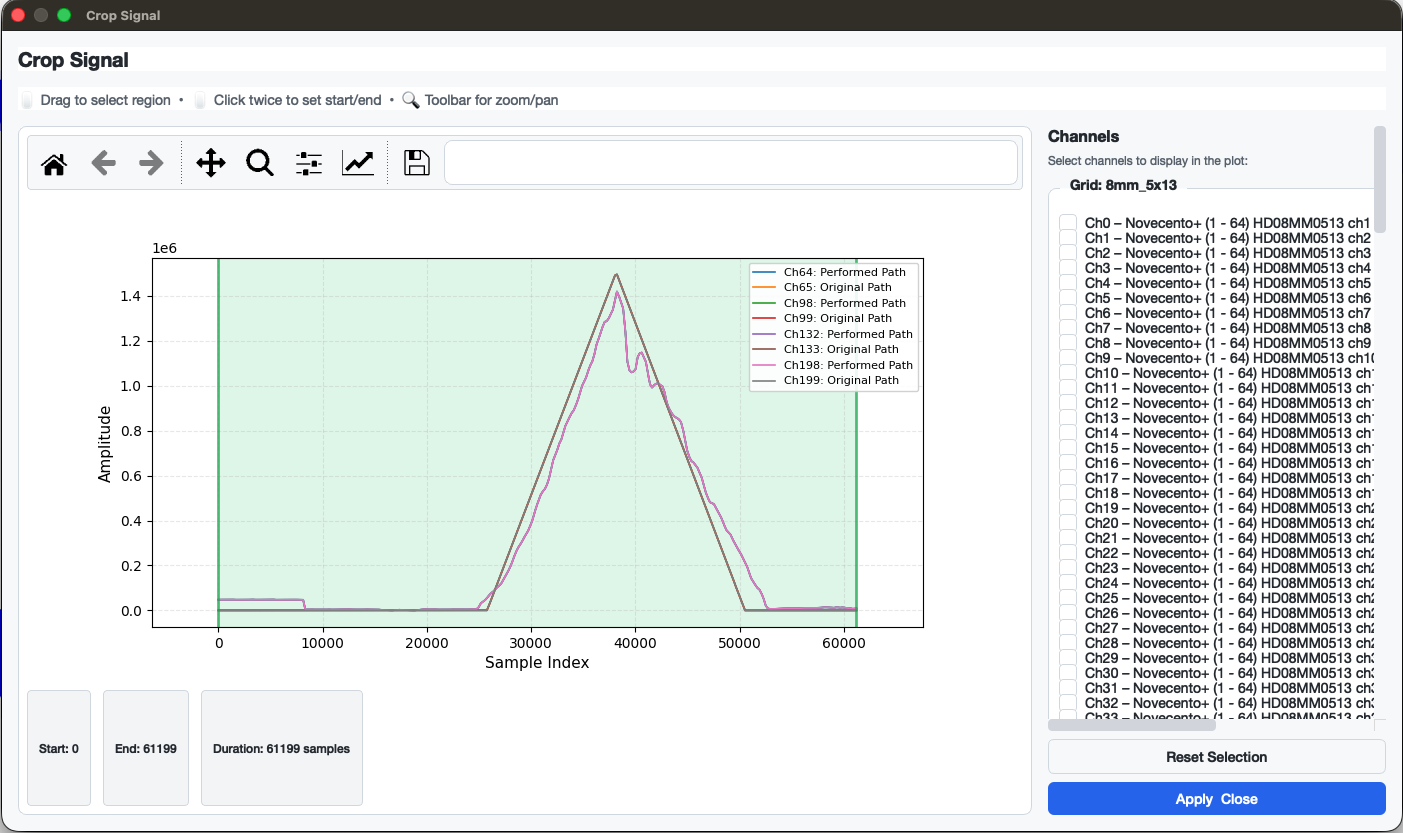
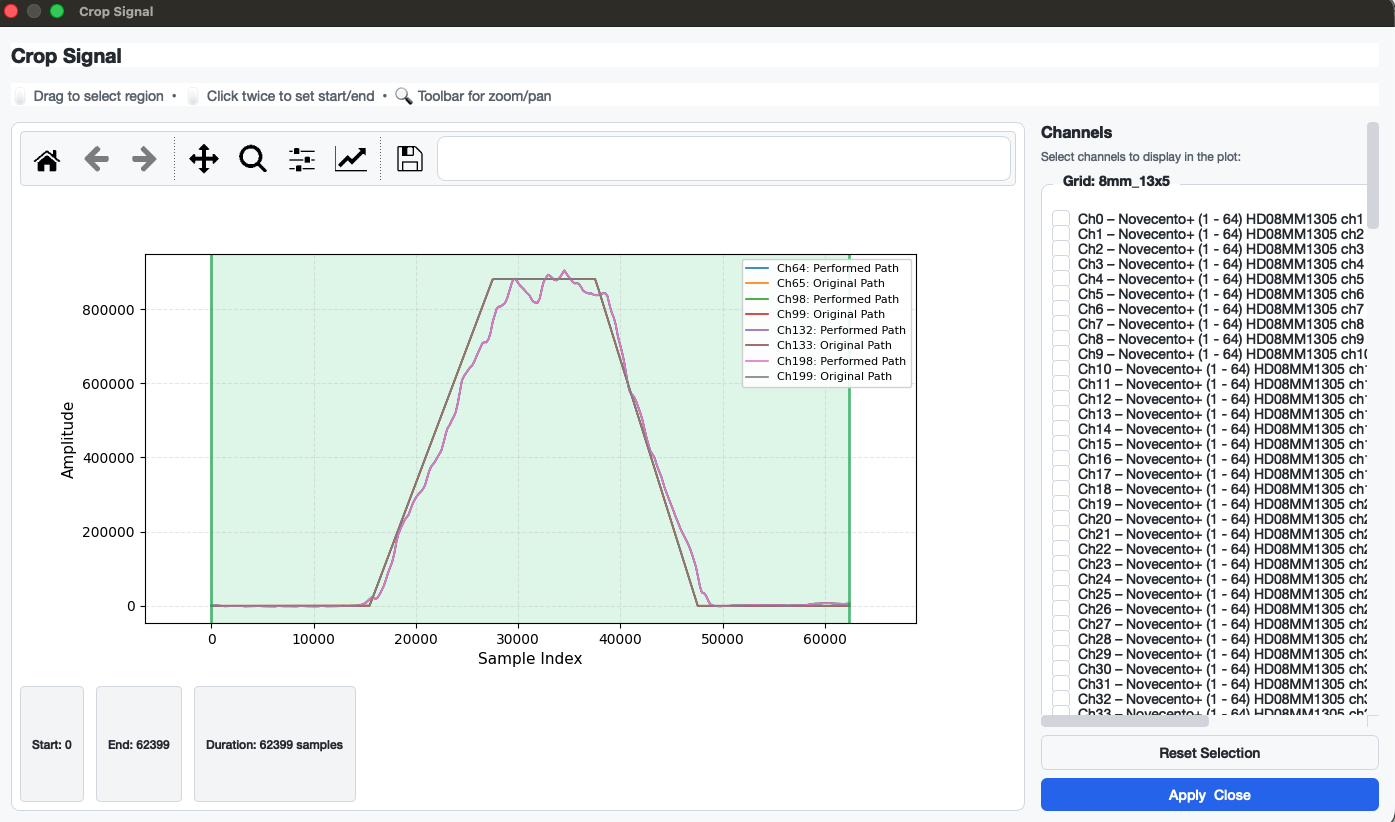
docs: Update screenshots and add fiber trajectory page
Replace the dashboard, density map and crop dialog screenshots with
current ones, add the reference signal overlay to the dashboard page,
and document the Fiber Trajectory Analysis dialog on its own page.

Claude-Session: https://claude.ai/code/session_01Cm2RY1nDJQjej4myeVVUh1

diff --git a/docs/usage/fiber_trajectory.md b/docs/usage/fiber_trajectory.md
@@ -1,0 +1,52 @@
+## Fiber Trajectory Analysis
+
+The **Fiber Trajectory Analysis** estimates, for one grid, the direction in which motor unit action potentials travel across the electrodes. From that direction it reports the fiber angle relative to the grid, the conduction velocity and, if one lies under the grid, the position of the innervation zone. Use it to check whether a grid was placed along the fibers, or to find out why a grid yields few motor units.
+
+![Fiber Trajectory Analysis with a detected innervation zone](../img/fiber_trajectory/fiber_trajectory_iz.png)
+
+---
+
+## Opening the Dialog
+
+Go to **Signal → Fiber Trajectory Analysis...**
+
+> The menu item is only enabled after a file has been loaded and a grid has been configured.
+
+---
+
+## Controls
+
+| Control | Description |
+|---------|-------------|
+| **Grid** | The grid to analyse. |
+| **Window** | Shows which part of the signal is used: the full signal, or the crop range if one is set (see [Crop Signal](crop_signal.md)). |
+| **Run Analysis** | Runs the angle search and fills the result cards and plots. |
+| **Auto Detect** | Runs the analysis and suggests a grid orientation: within ±20° the fibers run along the columns, beyond ±70° along the rows. In between the fibers run obliquely and no orientation change is suggested. |
+| **Export JSON** | Saves the results, the full angle search and the pairwise delays to a JSON file. |
+
+## Results
+
+| Card | Meaning |
+|------|---------|
+| **Fiber angle** | Angle of the fiber direction, measured from the column axis (0° = parallel to the columns, ±90° = parallel to the rows). |
+| **Conduction velocity** | Propagation speed along the fiber direction, in m/s. |
+| **IZ position** | Position of the innervation zone along the fiber direction, in mm. `n/d` if no innervation zone lies under the grid, which is normal when the grid covers only one side of it. |
+| **Alignment (R²)** | How well the delays fit a single propagation direction. Values of 0.80 and above are good, 0.60 to 0.80 moderate, below 0.60 unreliable. |
+
+The left plot shows the electrode grid with the estimated fiber trajectory. If an innervation zone is detected, it is drawn as a dashed line and the electrodes closest to it are highlighted. The right plot shows R² over all search angles; the selected angle is marked.
+
+## Reading the Result
+
+A clear result has one distinct peak in the angle search and a high R²:
+
+![Clear fiber direction](../img/fiber_trajectory/fiber_trajectory_aligned.png)
+
+A low R² with several competing peaks means the direction is not well defined. Typical causes are poor signal quality on part of the grid, a grid placed across the fibers, or a window that contains more rest than contraction. Cropping to a clean contraction burst often helps.
+
+![Poorly defined fiber direction](../img/fiber_trajectory/fiber_trajectory_poor_fit.png)
+
+---
+
+## Method
+
+Pairwise cross-correlation between electrodes and delay plane fitting, following Farina & Merletti, *J Neurosci Methods* 134:199–208, 2004. The innervation zone is detected as a sign reversal of the delays between adjacent positions along the fiber direction.

diff --git a/README.md b/README.md
@@ -52,7 +52,8 @@ helps identify and exclude faulty channels and automatically flag potential arti
 
 <div align="center">
   <img src="docs/img/dashboard.png" alt="Dashboard" width="100%">
-  <img src="docs/img/signal_overview_plot/signal_overview_plot.png" alt="Signal Overview Plot" width="100%">
+  <img src="docs/img/density_map.png" alt="Density Map" width="49%">
+  <img src="docs/img/fiber_trajectory/fiber_trajectory_iz.png" alt="Fiber Trajectory Analysis" width="49%">
 </div>
 
 ## Requirements

diff --git a/docs/usage/dashboard.md b/docs/usage/dashboard.md
@@ -49,6 +49,8 @@ Once you've loaded HD-sEMG data (see the [Getting Started Guide](getting_started
 
   * You can choose which reference to display via the dropdown next to the checkbox.
 
+  ![Dashboard with reference signal overlay](../img/dashboard_reference_signal.png)
+
 * **Signal Overview Plot**
   Opens a detailed plot of all selected channels to help identify artifacts or abnormal patterns.
   For more information, see [Signal Overview Plot](signal_overview_plot.md).
